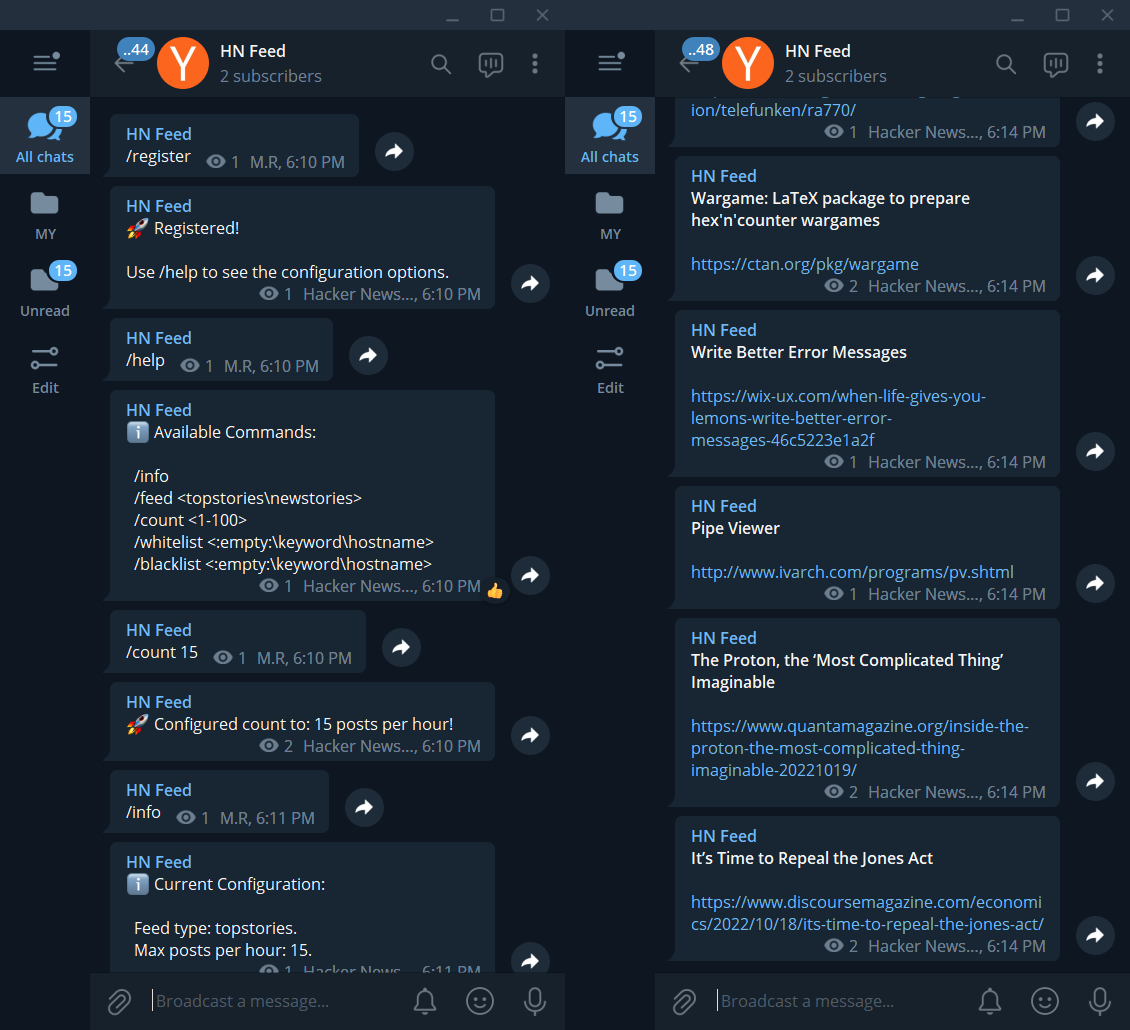
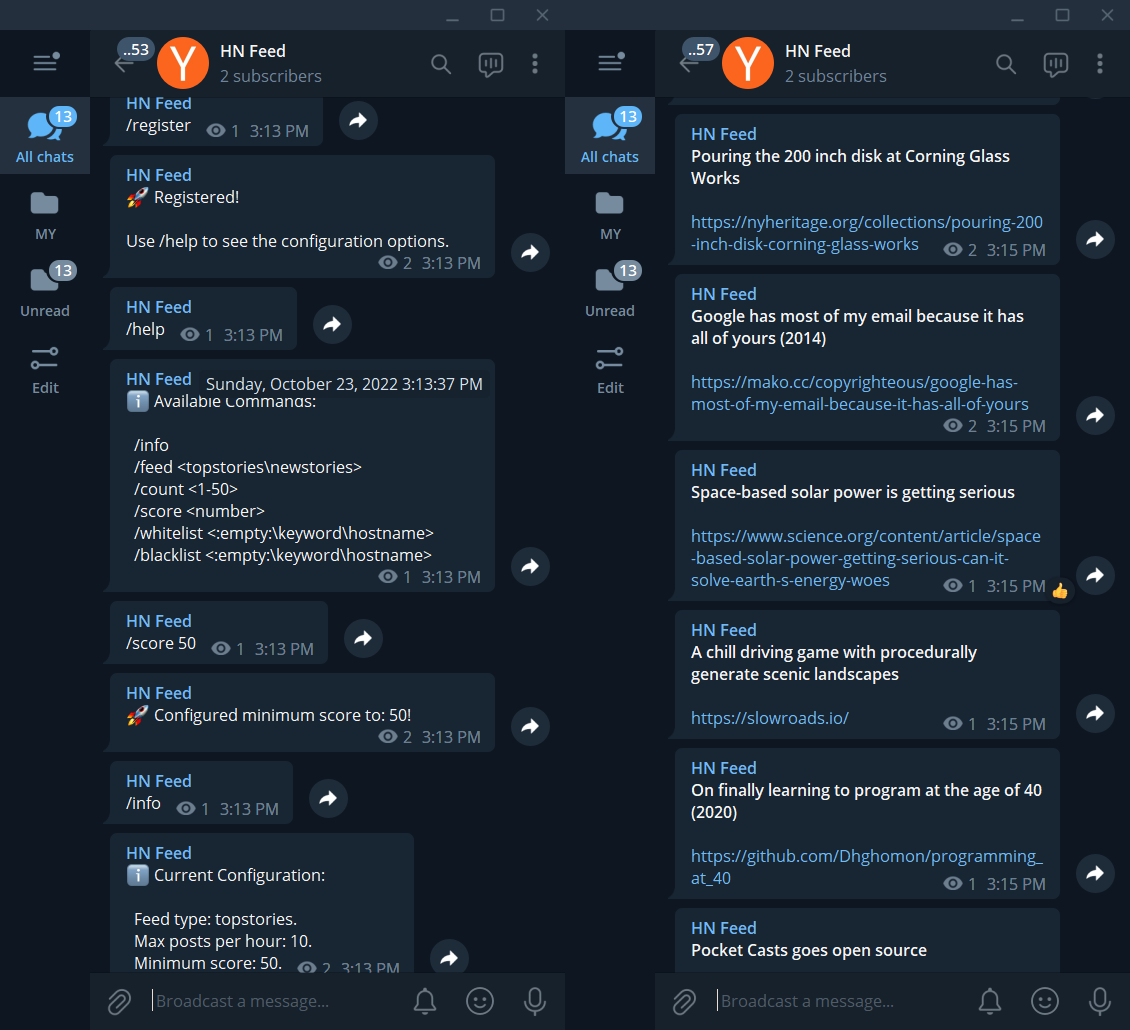
Added option to filter by post score

diff --git a/bot/handlers/channel.go b/bot/handlers/channel.go
@@ -1,6 +1,7 @@
 package handlers
 
 import (
+	"errors"
 	"fmt"
 	"hn_feed/bot/utils"
 	"hn_feed/config"
@@ -57,6 +58,7 @@ func OnChannelHelp(ctx telebot.Context) error {
 		/info
 		/feed <topstories\newstories>
 		/count <1-%d>
+		/score <number>
 		/whitelist <:empty:\keyword\hostname>
 		/blacklist <:empty:\keyword\hostname>
 		`, config.Get().MaxPosts),
@@ -72,55 +74,76 @@ func OnChannelInfo(ctx telebot.Context) error {
 
 		Feed type: %s.
 		Max posts per hour: %d.
-		`, channel.FeedType, channel.PostsCount,
+		Minimum score: %d.
+		`, channel.FeedType, channel.PostsCount, channel.MinimumScore,
 		),
 	)
 }
 
-func OnChannelConfigureFeedType(ctx telebot.Context) error {
+func onChannelConfigure(ctx telebot.Context, field string, updateChannel func(*db.Channel, string) error) error {
 	payload := ctx.Get(channelCommandPayloadKey)
 	if payload == nil || payload == "" {
-		return utils.SilentlySendAndDelete(ctx, "❗ Specify the feed type: <topstories\\newstories>!")
+		return utils.SilentlySendAndDelete(ctx, fmt.Sprintf("❗ Invalid %s!", field))
 	}
 
-	feedType := payload.(string)
-	if !slices.Contains(db.FeedTypes, feedType) {
-		return utils.SilentlySendAndDelete(ctx, "❗ Specify the feed type: <topstories\\newstories>!")
-	}
-
+	value := payload.(string)
 	chat := ctx.Chat()
 	channel := db.Channel{TgId: chat.ID}
 	channel.FirstOrCreate()
-	channel.FeedType = feedType
+	err := updateChannel(&channel, value)
+	if err != nil {
+		return utils.SilentlySendAndDelete(ctx, err.Error())
+	}
 	db.DB.Save(&channel)
-	log.Printf("[*] Updated feed type of: <%d - %s - %s> to %s.", chat.ID, chat.Title, chat.Username, payload)
+	log.Printf("[*] Updated %s of: <%d - %s - %s> to %s.", field, chat.ID, chat.Title, chat.Username, value)
 	return utils.SilentlySendAndDelete(
 		ctx,
-		fmt.Sprintf("🚀 Configured feed type to: %s!", payload),
+		fmt.Sprintf("🚀 Configured %s to: %s!", field, value),
+	)
+}
+
+func OnChannelConfigureFeedType(ctx telebot.Context) error {
+	return onChannelConfigure(
+		ctx,
+		"feed type",
+		func(channel *db.Channel, feedType string) error {
+			if !slices.Contains(db.FeedTypes, feedType) {
+				return errors.New("❗ Specify the feed type: <topstories\\newstories>")
+			}
+			channel.FeedType = feedType
+			return nil
+		},
 	)
 }
 
 func OnChannelConfigureCount(ctx telebot.Context) error {
-	payload := ctx.Get(channelCommandPayloadKey)
-	if payload == nil || payload == "" {
-		return utils.SilentlySendAndDelete(ctx, "❗ Specify the number of posts you want to see!")
-	}
-
-	count, err := strconv.Atoi(payload.(string))
-	if err != nil ||
-		count < 1 || count > config.Get().MaxPosts {
-		return utils.SilentlySendAndDelete(ctx, fmt.Sprintf("❗ The count should be between 1 and %d!", config.Get().MaxPosts))
-	}
-
-	chat := ctx.Chat()
-	channel := db.Channel{TgId: chat.ID}
-	channel.FirstOrCreate()
-	channel.PostsCount = count
-	db.DB.Save(&channel)
-	log.Printf("[*] Updated count of: <%d - %s - %s> to %d.", chat.ID, chat.Title, chat.Username, count)
-	return utils.SilentlySendAndDelete(
+	return onChannelConfigure(
 		ctx,
-		fmt.Sprintf("🚀 Configured count to: %d posts per hour!", count),
+		"posts count",
+		func(channel *db.Channel, value string) error {
+			count, err := strconv.Atoi(value)
+			if err != nil ||
+				count < 1 || count > config.Get().MaxPosts {
+				return fmt.Errorf("❗ The count should be between 1 and %d", config.Get().MaxPosts)
+			}
+			channel.PostsCount = count
+			return nil
+		},
+	)
+}
+
+func OnChannelConfigureScore(ctx telebot.Context) error {
+	return onChannelConfigure(
+		ctx,
+		"minimum score",
+		func(channel *db.Channel, value string) error {
+			score, err := strconv.Atoi(value)
+			if err != nil {
+				return errors.New("❗ Invalid minimum score")
+			}
+			channel.MinimumScore = score
+			return nil
+		},
 	)
 }
 

diff --git a/hn_api/api.go b/hn_api/api.go
@@ -12,8 +12,6 @@ import (
 
 const baseUrl = "https://hacker-news.firebaseio.com/v0"
 
-var postsLock sync.RWMutex // GetNewPosts gets called in multiple goroutines, FirstOrCreate is not thread safe: https://github.com/go-gorm/gorm/issues/5803.
-
 func GetNewPosts(feedType string) (map[int]db.Post, error) {
 	var postsIds []int
 	r, err := http.Get(fmt.Sprintf("%s/%s.json", baseUrl, feedType))
@@ -25,6 +23,7 @@ func GetNewPosts(feedType string) (map[int]db.Post, error) {
 	json.NewDecoder(r.Body).Decode(&postsIds)
 
 	var wg sync.WaitGroup
+	var postsLock sync.RWMutex
 	posts := make(map[int]db.Post, config.Get().MaxPosts)
 	for i := 0; i < config.Get().MaxPosts; i++ {
 		wg.Add(1)
@@ -46,7 +45,7 @@ func GetNewPosts(feedType string) (map[int]db.Post, error) {
 			}
 
 			postsLock.Lock()
-			post.FirstOrCreate()
+			post.Upsert()
 			posts[postCount] = post
 			postsLock.Unlock()
 		}(i)

diff --git a/db/post.go b/db/post.go
@@ -1,15 +1,23 @@
 package db
 
-import "gorm.io/gorm"
+import (
+	"gorm.io/gorm/clause"
+
+	"gorm.io/gorm"
+)
 
 type Post struct {
 	gorm.Model
 	PostId   int        `gorm:"uniqueIndex" json:"id"`
 	Url      string     `json:"url"`
 	Title    string     `json:"title"`
+	Score    int        `gorm:"default:1" json:"score"`
 	Channels []*Channel `gorm:"many2many:channels_posts;" json:",omitempty"`
 }
 
-func (post *Post) FirstOrCreate() {
-	DB.FirstOrCreate(post, "post_id = ?", post.PostId)
+func (post *Post) Upsert() {
+	DB.Clauses(clause.OnConflict{
+		Columns:   []clause.Column{{Name: "post_id"}},
+		DoUpdates: clause.Assignments(map[string]interface{}{"score": post.Score}),
+	}).Create(post)
 }

diff --git a/db/channel.go b/db/channel.go
@@ -16,6 +16,7 @@ type Channel struct {
 	Title               string
 	FeedType            string     `gorm:"default:topstories"`
 	PostsCount          int        `gorm:"default:10"`
+	MinimumScore        int        `gorm:"default:1"`
 	Posts               []*Post    `gorm:"many2many:channels_posts;"`
 	WhitelistedKeywords []*Keyword `gorm:"many2many:whitelisted_users;"`
 	BlacklistedKeywords []*Keyword `gorm:"many2many:blacklisted_users;"`

diff --git a/bot/bot.go b/bot/bot.go
@@ -32,6 +32,7 @@ func initHandlers(bot *telebot.Bot) {
 			"/info":      handlers.OnChannelInfo,
 			"/feed":      handlers.OnChannelConfigureFeedType,
 			"/count":     handlers.OnChannelConfigureCount,
+			"/score":     handlers.OnChannelConfigureScore,
 			"/whitelist": handlers.OnChannelConfigureWhitelist,
 			"/blacklist": handlers.OnChannelConfigureBlacklist,
 			"/register":  handlers.OnChannelRegister,

diff --git a/timer/timer.go b/timer/timer.go
@@ -97,6 +97,10 @@ func shouldUpdateChannel(postCount int, post db.Post, channel db.Channel) bool {
 		return false
 	}
 
+	if post.Score < channel.MinimumScore {
+		return false
+	}
+
 	if slices.IndexFunc(channel.Posts, func(channelPost *db.Post) bool {
 		return channelPost.PostId == post.PostId
 	}) >= 0 {
